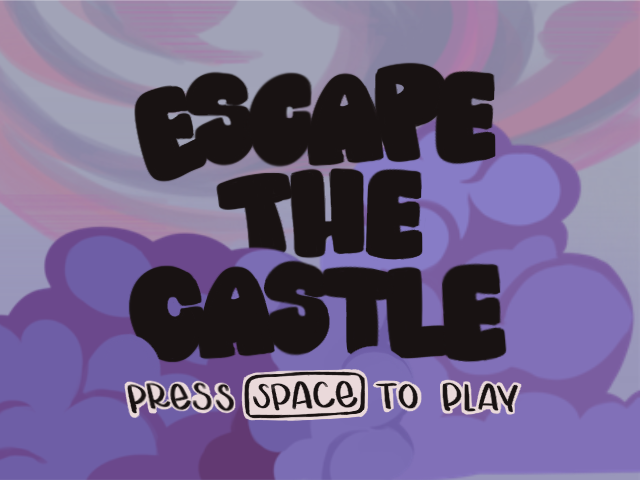
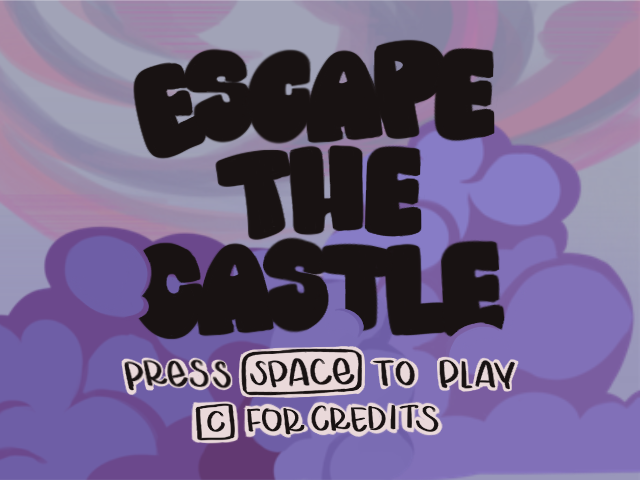
add credits scene

Changed region(s): [[0.1875, 0.0625, 0.8125, 0.9375]]

diff --git a/src/scenes/Credits.js b/src/scenes/Credits.js
@@ -1,0 +1,46 @@
+class Credits extends Phaser.Scene {
+  constructor() {
+    super('creditsScene')
+  }  
+  create() {
+    const textConfig = {
+      fontFamily: 'Courier',
+      fontSize: '24px',
+      color: '#181212',
+      align: 'left',
+      padding: {
+      top: 5,
+      bottom: 5,
+      },
+      wordWrap: {
+        width: 620,
+        useAdvancedWrap: true,
+      },
+    }
+
+    this.creditsScreen = this.add.tileSprite(0,0, 640, 480, 'credits').setOrigin(0, 0)
+    this.creditsText = this.add.text(borderPadding, borderPadding,
+      'BGM by Gregor Quendel: https://freesound.org/people/GregorQuendel/sounds/578722/\
+      \nUI SFX by FlechaBr: https://freesound.org/people/FlechaBr/sounds/340159/\
+      \nEnemy SFX by MATRIXXX_: https://freesound.org/people/MATRIXXX_/sounds/657927/\
+      \nScore ascension SFX by qubodup: https://freesound.org/people/qubodup/sounds/442943/\
+      \nObject collection SFX by NMTVESounds: https://freesound.org/people/NMTVESounds/sounds/582344/',
+      textConfig)
+
+    // define keys
+    keyUP = this.input.keyboard.addKey(Phaser.Input.Keyboard.KeyCodes.UP)
+    keyDOWN = this.input.keyboard.addKey(Phaser.Input.Keyboard.KeyCodes.DOWN)
+    keySPACE = this.input.keyboard.addKey(Phaser.Input.Keyboard.KeyCodes.SPACE)
+    keyRESET = this.input.keyboard.addKey(Phaser.Input.Keyboard.KeyCodes.R)
+    keyMENU = this.input.keyboard.addKey(Phaser.Input.Keyboard.KeyCodes.M)
+    keyCREDITS = this.input.keyboard.addKey(Phaser.Input.Keyboard.KeyCodes.C)
+  }
+
+  update() {
+    if (Phaser.Input.Keyboard.JustDown(keyMENU)) {
+      restartState = true
+      this.sound.play('select', {volume: 0.2})
+      this.scene.start('menuScene')
+    }
+  }
+}

diff --git a/src/scenes/Menu.js b/src/scenes/Menu.js
@@ -22,6 +22,7 @@ class Menu extends Phaser.Scene {
     this.load.image('menu', './assets/menu.png')
     this.load.image('gameover', './assets/gameover.png')
     this.load.image('tutorial', './assets/tutorial.png')
+    this.load.image('credits', './assets/credits.png')
 
     // spritesheets
     this.load.spritesheet('princess', './assets/princess.png', {
@@ -91,12 +92,18 @@ class Menu extends Phaser.Scene {
     keySPACE = this.input.keyboard.addKey(Phaser.Input.Keyboard.KeyCodes.SPACE)
     keyRESET = this.input.keyboard.addKey(Phaser.Input.Keyboard.KeyCodes.R)
     keyMENU = this.input.keyboard.addKey(Phaser.Input.Keyboard.KeyCodes.M)
+    keyCREDITS = this.input.keyboard.addKey(Phaser.Input.Keyboard.KeyCodes.C)
   }
 
   update() {
     if (Phaser.Input.Keyboard.JustDown(keySPACE)) {
       this.sound.play('select', {volume: 0.2})
       this.scene.start('playScene')
+    }
+
+    if (Phaser.Input.Keyboard.JustDown(keyCREDITS)) {
+      this.sound.play('select', {volume: 0.2})
+      this.scene.start('creditsScene')
     }
   }
 }

diff --git a/src/scenes/Play.js b/src/scenes/Play.js
@@ -82,6 +82,7 @@ class Play extends Phaser.Scene {
     keySPACE = this.input.keyboard.addKey(Phaser.Input.Keyboard.KeyCodes.SPACE)
     keyRESET = this.input.keyboard.addKey(Phaser.Input.Keyboard.KeyCodes.R)
     keyMENU = this.input.keyboard.addKey(Phaser.Input.Keyboard.KeyCodes.M)
+    keyCREDITS = this.input.keyboard.addKey(Phaser.Input.Keyboard.KeyCodes.C)
 
     // display score
     this.scoreText = this.add.text(borderPadding, borderPadding, this.score, textConfig)

diff --git a/src/main.js b/src/main.js
@@ -8,13 +8,13 @@ let config = {
       debug: true
     },
   },
-  scene: [ Menu, Play ],
+  scene: [ Menu, Play, Credits ],
 }
 
 let game = new Phaser.Game(config);
 
 // reserve keyboard bindings
-let keyUP, keyDOWN, keySPACE, keyRESET, keyMENU
+let keyUP, keyDOWN, keySPACE, keyRESET, keyMENU, keyCREDITS
 let restartState = false
 
 // set UI sizes

diff --git a/index.html b/index.html
@@ -10,6 +10,7 @@
   <script src="src/prefabs/Heel.js"></script>
   <script src="src/prefabs/Cupcake.js"></script>
   <script src="src/scenes/Menu.js"></script>
+  <script src="src/scenes/Credits.js"></script>
   <script src="src/scenes/Play.js"></script>
   <script src="src/main.js"></script>
   <style>
